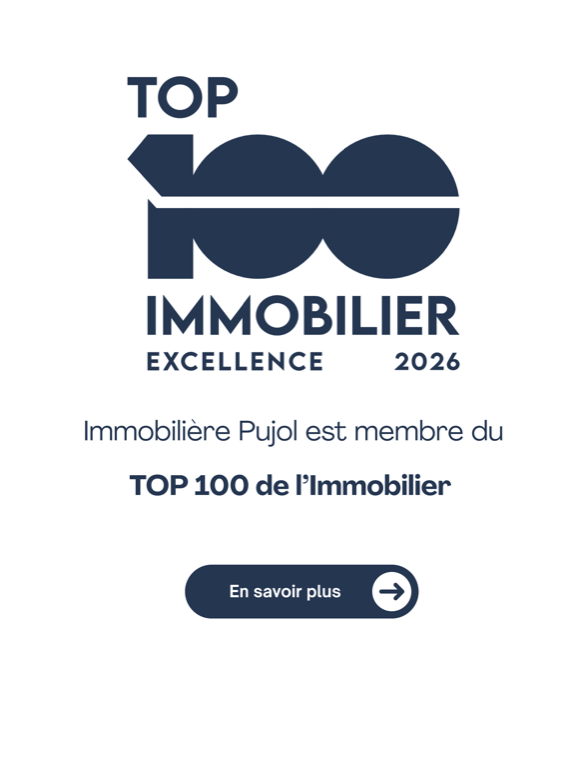
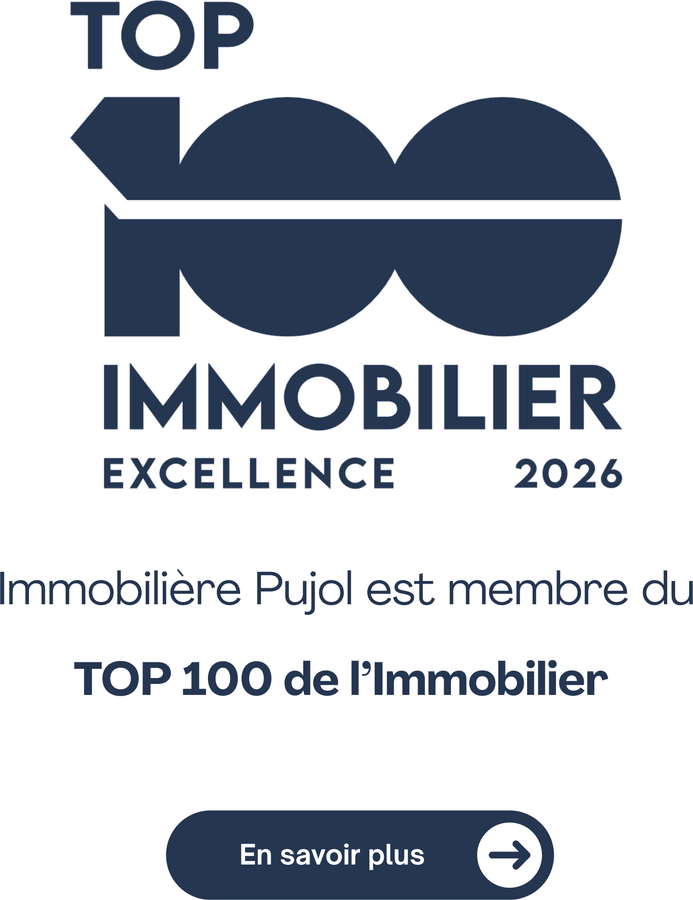
TOP 100 section badge: trim whitespace (left-aligns with text) + enlarge to 460px
sharp-trimmed the white border (693x900 content-tight) so the visual sits flush
with the heading/paragraph; display:block + height 460px.

diff --git a/src/styles/components/_home.scss b/src/styles/components/_home.scss
@@ -872,9 +872,9 @@ $ds-side-pad: unquote("max(100px, calc(50% - 620px))");
 
   // "Membre du TOP 100 de l'Immobilier" badge under the text (links to lecercletop100.fr).
   .about__top100 {
-    display: inline-block;
-    margin-top: 16px;
-    img { height: 380px; width: auto; display: block; }
+    display: block;            // flush-left with the heading/paragraph
+    margin-top: 18px;
+    img { height: 460px; width: auto; display: block; }
   }
 
   .right { position: relative; display: block; }
